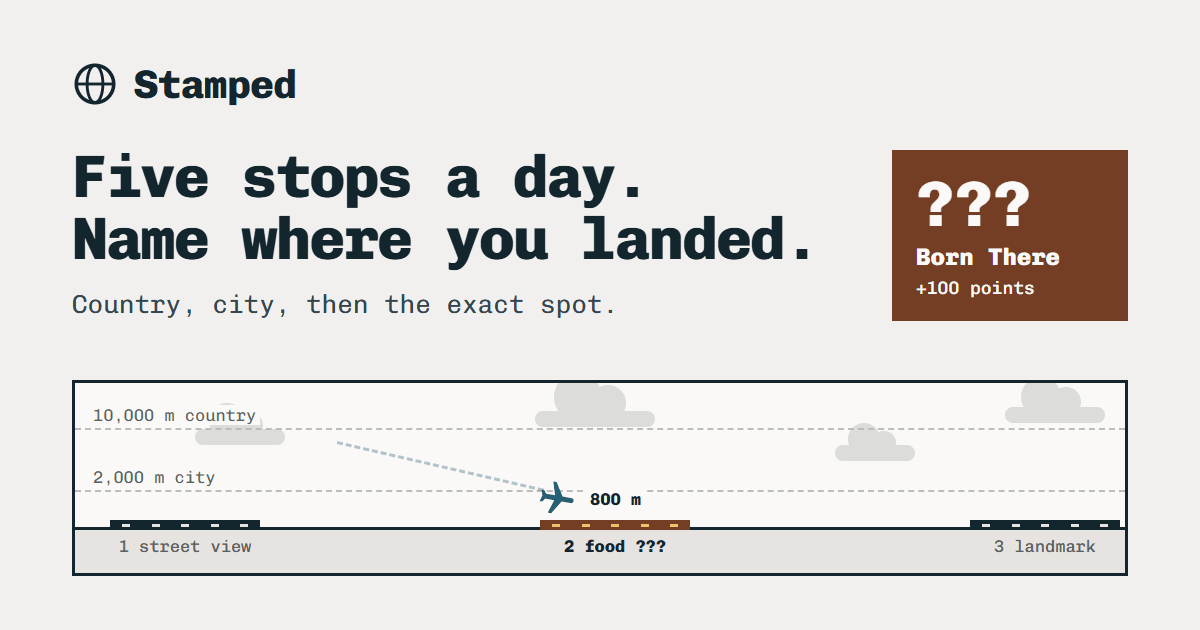
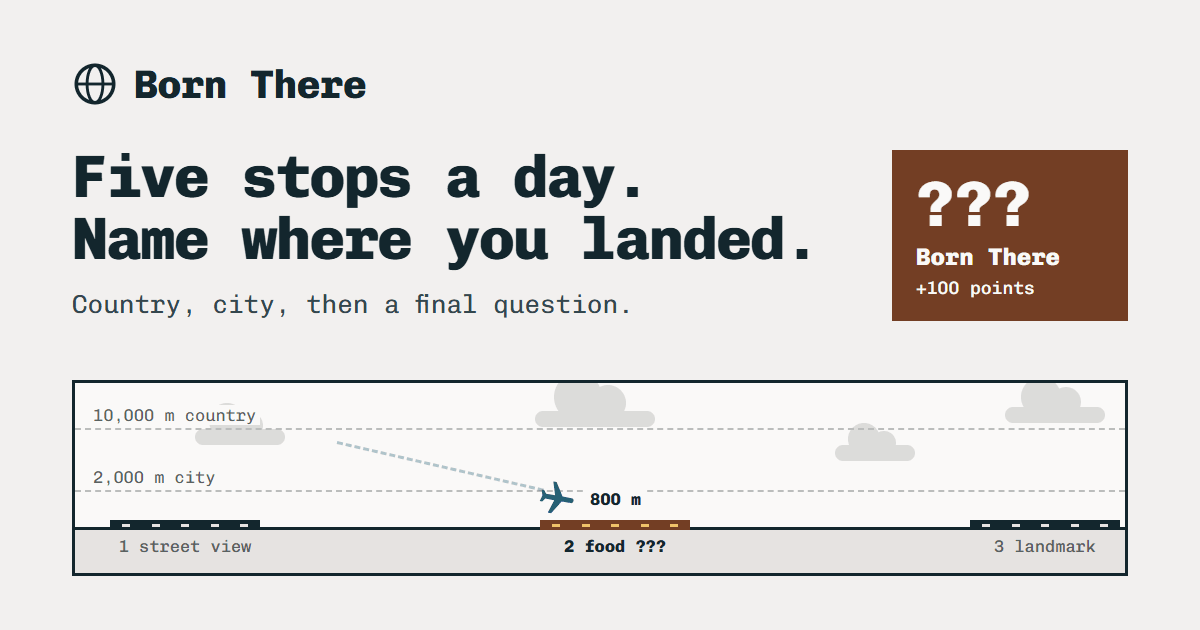
Rename the game from Stamped to Born There
The header, page title, share text, league invite, share image, alert
emails, admin sign-in prompt, drafting prompt and Wikimedia user agent
use the new name; the share image also drops the old "exact spot" line.
The player cookie keeps its stamped_pid name so nobody loses progress.

Changed region(s): [[0.3083, 0.4524, 0.5242, 0.5127], [0.0925, 0.0905, 0.3083, 0.181]]

diff --git a/src/components/screens.tsx b/src/components/screens.tsx
@@ -90,7 +90,7 @@ export function Done({ day, me, onPassport, onFriends, onOpenDay }: { day: Day; 
   // the comparison, shortened for sharing: "Better than 76%" becomes "Top 24%"
   const rank = day.field && (day.field.better === 100 ? `Top score ${day.isToday ? "today" : "on this flight"}` : `Top ${Math.max(1, 100 - day.field.better)}% ${day.isToday ? "today" : "on this flight"}`);
   // each stop's points, not stamp names or places: nothing that spoils the day for a friend who hasn't played
-  const share = [`Stamped, flight ${day.flight}: ${s}/${MAX_DAY_SCORE}`, `Stops: ${day.stops.map(x => x.state.points).join(" · ")}`, flownKm ? `${km(flownKm)} km flown` : "", rank,
+  const share = [`Born There, flight ${day.flight}: ${s}/${MAX_DAY_SCORE}`, `Stops: ${day.stops.map(x => x.state.points).join(" · ")}`, flownKm ? `${km(flownKm)} km flown` : "", rank,
     day.isToday && si && si.n >= 2 ? `Streak: ${si.n} days` : "", typeof location !== "undefined" ? location.origin : ""].filter(Boolean).join("\n");
   const nC = me?.passport.countries.length ?? 0, cls = classFor(nC), nxt = nextClass(nC);
   const newC = me?.passport.countries.filter(c => c.first === day.date).length ?? 0, newCity = me?.passport.cities.filter(c => c.first === day.date).length ?? 0;
@@ -206,7 +206,7 @@ export function Friends({ me, leagues, onCreate, onJoin, onLeave, onRename, onBa
                 <td className="num c-days">{m.played}/7</td><td className="num">{m.todayScore ?? "Not yet"}</td><td className="num c-streak">{m.streak}</td><td className="num total">{m.total}</td></tr>
             ))}</tbody></table></div>
           <div className="actions">
-            <button className="btn btn--small" type="button" onClick={() => navigator.clipboard.writeText(`Join my Stamped league "${l.name}": ${invite(l)}`).then(() => setCopied(l.id), () => setCopied(""))}>{copied === l.id ? "Invite copied" : "Copy invite link"}</button>
+            <button className="btn btn--small" type="button" onClick={() => navigator.clipboard.writeText(`Join my Born There league "${l.name}": ${invite(l)}`).then(() => setCopied(l.id), () => setCopied(""))}>{copied === l.id ? "Invite copied" : "Copy invite link"}</button>
             <button className="linkish" type="button" onClick={() => onLeave(l.id)}>Leave league</button>
           </div>
         </section>

diff --git a/src/server/drafter.ts b/src/server/drafter.ts
@@ -24,7 +24,7 @@ export async function needed(db: Db): Promise<Record<string, number>> {
 type Block = Anthropic.Beta.BetaContentBlockParam;
 export type Ask = <T>(content: Block[], schema: Record<string, unknown>) => Promise<T>;
 
-const SYSTEM = `You write stops for Stamped, a daily geography game. Each stop shows a photo (or, for Language stops, a text message) and the player names the country, then the city, then answers a final question about the exact thing shown.
+const SYSTEM = `You write stops for Born There, a daily geography game. Each stop shows a photo (or, for Language stops, a text message) and the player names the country, then the city, then answers a final question about the exact thing shown.
 Rules for every stop:
 - Facts come only from the source text you're given. Never add a fact it doesn't support.
 - Nothing the player sees before guessing (the clue, the photo description, the final question) may name or hint at the country, city or answer.

diff --git a/src/app/layout.tsx b/src/app/layout.tsx
@@ -10,10 +10,10 @@ const SITE = process.env.VERCEL_PROJECT_PRODUCTION_URL ? `https://${process.env.
 // The share card is src/app/opengraph-image.png and the icons are icon.png and apple-icon.png beside it; Next adds their tags.
 export const metadata: Metadata = {
   metadataBase: new URL(SITE),
-  title: "Stamped",
+  title: "Born There",
   description: DESCRIPTION,
-  openGraph: { title: "Stamped: five stops a day", description: DESCRIPTION, siteName: "Stamped", type: "website", url: "/" },
-  twitter: { card: "summary_large_image", title: "Stamped: five stops a day", description: DESCRIPTION },
+  openGraph: { title: "Born There: five stops a day", description: DESCRIPTION, siteName: "Born There", type: "website", url: "/" },
+  twitter: { card: "summary_large_image", title: "Born There: five stops a day", description: DESCRIPTION },
 };
 export const viewport: Viewport = { width: "device-width", initialScale: 1, viewportFit: "cover" };
 

diff --git a/src/components/Game.tsx b/src/components/Game.tsx
@@ -87,9 +87,9 @@ export default function Game() {
   return (
     <div className={`shell${playing ? " is-playing" : ""}`}>
       <header className="bar">
-        <Link className="mark" href="/" aria-label="Stamped, back to today's flight" onClick={e => { e.preventDefault(); if (!playing) void load(); }}>
+        <Link className="mark" href="/" aria-label="Born There, back to today's flight" onClick={e => { e.preventDefault(); if (!playing) void load(); }}>
           <svg viewBox="0 0 32 32" aria-hidden="true"><circle cx="16" cy="16" r="13" fill="none" stroke="currentColor" strokeWidth="2.5" /><ellipse cx="16" cy="16" rx="5.5" ry="13" fill="none" stroke="currentColor" strokeWidth="2" /><path d="M3 16h26" stroke="currentColor" strokeWidth="2" /></svg>
-          Stamped
+          Born There
         </Link>
         <div className="bar-right">
           <nav className="bar-nav" aria-label="Your progress">

diff --git a/src/server/service.ts b/src/server/service.ts
@@ -123,7 +123,7 @@ export async function keepCalendar(db: Db, today: string, seed = process.env.SEE
 /** The daily job: top up the calendar and say so when it is running low. */
 export async function dailyCalendarCheck(db: Db, today: string, warn: (subject: string, text: string) => Promise<void>, seed?: boolean) {
   const { ahead, replayed } = await keepCalendar(db, today, seed);
-  if (ahead < LOW_DAYS) await warn(`Stamped: only ${ahead} ${ahead === 1 ? "day" : "days"} of flights ready`,
+  if (ahead < LOW_DAYS) await warn(`Born There: only ${ahead} ${ahead === 1 ? "day" : "days"} of flights ready`,
     `Flights are ready for the next ${ahead} ${ahead === 1 ? "day" : "days"} after ${today}. Add more to keep ${DAYS_AHEAD} days ahead.${replayed.length ? ` Replaying an old flight on: ${replayed.join(", ")}.` : ""}`);
   return { ahead, replayed };
 }

diff --git a/src/app/api/draft-stops/route.ts b/src/app/api/draft-stops/route.ts
@@ -10,10 +10,10 @@ export const maxDuration = 300;   // every type drafts at once; a run is about t
 export const POST = handleSchedule(async () => {
   try {
     const { added, skipped } = await draftStops(await db());
-    if (added || skipped.length) await sendAlert(`Stamped: ${added} new ${added === 1 ? "stop" : "stops"} to review`,
+    if (added || skipped.length) await sendAlert(`Born There: ${added} new ${added === 1 ? "stop" : "stops"} to review`,
       `Approve them at /admin.${skipped.length ? `\n\nSkipped ${skipped.length}:\n${skipped.join("\n")}` : ""}`);
   } catch (e) {
-    await sendAlert("Stamped: the weekly drafting job failed", String(e));
+    await sendAlert("Born There: the weekly drafting job failed", String(e));
     throw e;
   }
 });

diff --git a/src/server/service.test.ts b/src/server/service.test.ts
@@ -53,7 +53,7 @@ describe("sample flights", () => {
     const low = await createDb(), rounds = (seedDays as { rounds: Round[] }[])[0].rounds;
     await low.insert(itineraries).values(Array.from({ length: 7 }, (_, k) => ({ date: addDays(TODAY, k), flight: String(k + 1).padStart(3, "0"), rounds })));
     expect((await dailyCalendarCheck(low, TODAY, warn, false)).ahead).toBe(6);
-    expect(sent).toEqual(["Stamped: only 6 days of flights ready"]);
+    expect(sent).toEqual(["Born There: only 6 days of flights ready"]);
     await low.insert(itineraries).values({ date: addDays(TODAY, 7), flight: "008", rounds });
     await dailyCalendarCheck(low, TODAY, warn, false);
     expect(sent).toHaveLength(1);   // 7 days ahead is enough

diff --git a/src/server/bank.ts b/src/server/bank.ts
@@ -43,7 +43,7 @@ export function stopProblems(r: Round): string[] {
 
 /* ---- photos ---- */
 // Wikimedia asks automated clients to name themselves with a way to reach them, and limits cloud servers hard
-const UA = { "user-agent": "StampedGame/1.0 (https://stamped-smoky.vercel.app; daily geography game)" };
+const UA = { "user-agent": "BornThereGame/1.0 (https://bornthere.app; daily geography game)" };
 let wikimediaQueue: Promise<unknown> = Promise.resolve();
 /** A request to Wikipedia or Commons: one at a time per server, and a "slow down" waits as long as it asks, up to three times. */
 export function wikimedia(url: string | URL): Promise<Response> {

diff --git a/src/middleware.ts b/src/middleware.ts
@@ -12,7 +12,7 @@ function passwordFrom(req: NextRequest) {
 export async function middleware(req: NextRequest) {
   const expected = process.env.ADMIN_PASSWORD, given = passwordFrom(req);
   if (expected && given && await sha(given) === await sha(expected)) return NextResponse.next();
-  return new NextResponse("Password required.", { status: 401, headers: { "WWW-Authenticate": 'Basic realm="Stamped admin", charset="UTF-8"' } });
+  return new NextResponse("Password required.", { status: 401, headers: { "WWW-Authenticate": 'Basic realm="Born There admin", charset="UTF-8"' } });
 }
 
 export const config = { matcher: ["/admin", "/admin/:path*"] };

diff --git a/src/server/http.ts b/src/server/http.ts
@@ -40,7 +40,7 @@ export async function sendAlert(subject: string, text: string) {
   if (!key || !to) return;
   const res = await fetch("https://api.resend.com/emails", {
     method: "POST", headers: { authorization: `Bearer ${key}`, "content-type": "application/json" },
-    body: JSON.stringify({ from: process.env.ALERT_EMAIL_FROM || "Stamped <onboarding@resend.dev>", to, subject, text }),
+    body: JSON.stringify({ from: process.env.ALERT_EMAIL_FROM || "Born There <onboarding@resend.dev>", to, subject, text }),
   });
   if (!res.ok) console.error(`[alert] email failed: ${res.status} ${await res.text()}`);
 }

diff --git a/src/components/Flight.tsx b/src/components/Flight.tsx
@@ -1,6 +1,6 @@
 "use client";
 // The flight band: the day's route as a strip of sky across the top of play. Between stops the plane flies sideways to the next
-// runway; during a stop it comes down only as far as your answer earned (Krillion dives for depth; Stamped descends for precision).
+// runway; during a stop it comes down only as far as your answer earned (Krillion dives for depth; Born There descends for precision).
 import { useEffect, useLayoutEffect, useRef, useState } from "react";
 import type { StopData } from "@/lib/client/api";
 import { TIERS, type TierId } from "@/lib/game/rules";

diff --git a/src/app/api/keep-calendar/route.ts b/src/app/api/keep-calendar/route.ts
@@ -10,7 +10,7 @@ export const POST = handleSchedule(async () => {
   try {
     await dailyCalendarCheck(await db(), gameToday(), warn);
   } catch (e) {
-    await warn("Stamped: the daily calendar job failed", String(e));
+    await warn("Born There: the daily calendar job failed", String(e));
     throw e;
   }
 });
